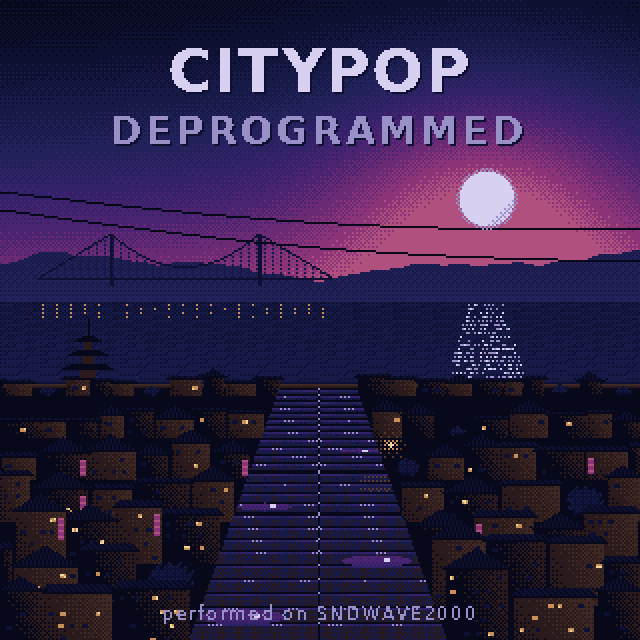
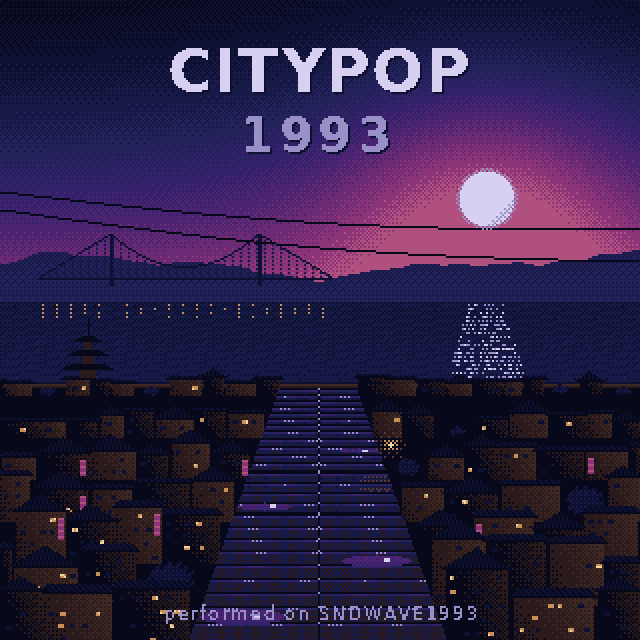
CITYPOP1993: the album and the synth renamed (CITYPOP DEPROGRAMMED -> CITYPOP1993, SNDWAVE2000 -> SNDWAVE1993)
- Changed: the title, captions, liner notes, credits, meta tags and download names.
- /citypop1993/ is canonical. It is a symlink on the host to the same folder, so neither deploy script moves.
- /citypop/ and /citypop-deprogrammed/ answer with 301 redirects to /citypop1993/.
- The cover is re-rendered from make_art.py: CITYPOP / 1993 / performed on SNDWAVE1993.

Changed region(s): [[0.1562, 0.1562, 0.8438, 0.25], [0.25, 0.9375, 0.75, 0.9688]]

diff --git a/site/citypop/index.html b/site/citypop/index.html
@@ -3,16 +3,17 @@
 <head>
 <meta charset="utf-8">
 <meta name="viewport" content="width=device-width, initial-scale=1">
-<title>CITYPOP DEPROGRAMMED</title>
-<meta name="description" content="An album for after the club: a theme and eleven variations on a rainy night, performed on SNDWAVE2000's sixteen Windows 3.11 Sound Recorders.">
-<meta property="og:title" content="CITYPOP DEPROGRAMMED">
-<meta property="og:description" content="A theme and eleven variations for a quiet night in a harbour town. Performed on SNDWAVE2000.">
-<meta property="og:image" content="https://williamsharkey.com/citypop/art/cover-640.png">
+<title>CITYPOP1993</title>
+<meta name="description" content="An album for after the club: a theme and eleven variations on a rainy night, performed on SNDWAVE1993's sixteen Windows 3.11 Sound Recorders.">
+<meta property="og:title" content="CITYPOP1993">
+<meta property="og:description" content="A theme and eleven variations for a quiet night in a harbour town. Performed on SNDWAVE1993.">
+<meta property="og:image" content="https://williamsharkey.com/citypop1993/art/cover-640.png">
+<link rel="canonical" href="https://williamsharkey.com/citypop1993/">
 <meta name="theme-color" content="#07081a">
 <link rel="icon" href="art/icon-32.png">
 <link rel="preload" href="fonts/DejaVuSans.woff2" as="font" type="font/woff2" crossorigin>
 <link rel="preload" href="fonts/DejaVuSansMono.woff2" as="font" type="font/woff2" crossorigin>
-<link rel="stylesheet" href="style.css?v=4">
+<link rel="stylesheet" href="style.css?v=5">
 </head>
 <body>
 <div id="scene" aria-hidden="true"><canvas id="night"></canvas></div>
@@ -23,7 +24,7 @@
   <!-- ============================================================ Media Player -->
   <section class="win" id="player" data-icon="player" data-label="Media Player" aria-label="Media Player">
     <div class="wi">
-      <div class="tb"><button class="sys" aria-label="Control menu for Media Player" aria-haspopup="menu"></button><h1 class="tt">Media Player - CITYPOP DEPROGRAMMED</h1><button class="mn" aria-label="Minimize Media Player"></button></div>
+      <div class="tb"><button class="sys" aria-label="Control menu for Media Player" aria-haspopup="menu"></button><h1 class="tt">Media Player - CITYPOP1993</h1><button class="mn" aria-label="Minimize Media Player"></button></div>
       <div class="menu" role="menubar">
         <button class="mi" data-menu="file"><u>F</u>ile</button>
         <button class="mi" data-menu="device"><u>D</u>evice</button>
@@ -102,7 +103,7 @@
       <div class="tb"><button class="sys" aria-label="Control menu for Notepad" aria-haspopup="menu"></button><h2 class="tt">Notepad - LINERS.TXT</h2><button class="mn" aria-label="Minimize Notepad"></button></div>
       <div class="menu" role="menubar"><span class="mi off"><u>F</u>ile</span><span class="mi off"><u>E</u>dit</span><span class="mi off"><u>S</u>earch</span><span class="mi off"><u>H</u>elp</span></div>
       <div class="sv np" id="npbox"><div class="vp text" tabindex="0">
-      <p><b>CITYPOP DEPROGRAMMED</b> is a theme and eleven variations for a quiet night in a harbour town. It starts
+      <p><b>CITYPOP1993</b> is a theme and eleven variations for a quiet night in a harbour town. It starts
       in the evening rain and ends at first light. Put it on after the club, or when friends are still on the couch
       and nobody wants to go home yet.</p>
       <p>The theme is eight bars long. A pick-up of four notes rises to the third and then leaps to the sixth, over
@@ -110,7 +111,7 @@
       tempo or mode, puts it in waltz time or turns it upside down. Variation VII is the theme inverted, and it is
       the slow heart of the record. One variation quotes, once and briefly, the first bar of Paganini's
       Caprice No. 24 (1817, public domain).</p>
-      <p>Every note was played by SNDWAVE2000. That is sixteen real Windows 3.11 Sound Recorders in DOSBox Pure,
+      <p>Every note was played by SNDWAVE1993. That is sixteen real Windows 3.11 Sound Recorders in DOSBox Pure,
       one Windows for each part, driven by MIDI and rendered offline. The mixer only sets levels and pans and adds a
       shared echo and room. The electric pianos and basses were recorded from the publisher's own instruments into
       the album's sound library, the <i>Rainy Loft Collection</i>, next to rain, a city at night, a far train and an
@@ -132,8 +133,8 @@
       </ul>
       <h3>Credits</h3>
       <ul id="credits">
-        <li>Composed, arranged and performed on SNDWAVE2000 by Algorithmic Industries (William Sharkey).</li>
-        <li>Performed on SNDWAVE2000 with the Rainy Loft Collection (Harborlight Audio Works Co., Ltd., 1988) and the SNDWAVE2000 pack discs.</li>
+        <li>Composed, arranged and performed on SNDWAVE1993 by Algorithmic Industries (William Sharkey).</li>
+        <li>Performed on SNDWAVE1993 with the Rainy Loft Collection (Harborlight Audio Works Co., Ltd., 1988) and the SNDWAVE1993 pack discs.</li>
         <li>Sounds by Paul Chauncy (Uncle Homunculus / Paulywauly).</li>
         <li>Electric piano and bass: the Bele Dance instruments by William Sharkey.</li>
         <li>Field recordings and instrument samples (CC0, Freesound): <span id="cc0">see SOURCES.TXT</span>.</li>
@@ -142,7 +143,7 @@
         <li>Paganini, Caprice No. 24 in A minor, Op. 1 (published 1820), public domain.</li>
       </ul>
       <p class="small"><a href="SOURCES.TXT">SOURCES.TXT</a> lists every recording, its author, licence and page. The
-      compositions and recordings on this page are CC0. <a href="/sndwave2000/">SNDWAVE2000</a> is free.</p>
+      compositions and recordings on this page are CC0. <a href="/sndwave2000/">SNDWAVE1993</a> is free.</p>
       </div><div class="sb"></div></div>
     </div>
   </section>
@@ -182,7 +183,7 @@
       <div class="client form about">
         <canvas class="abicon" id="abicon" aria-hidden="true"></canvas>
         <div>
-          <p><b>CITYPOP DEPROGRAMMED</b><br>Algorithmic Industries<br>Performed on SNDWAVE2000</p>
+          <p><b>CITYPOP1993</b><br>Algorithmic Industries<br>Performed on SNDWAVE1993</p>
           <p class="keys">Space play or pause<br>N / P next or previous<br>&larr; &rarr; 10 seconds<br>&uarr; &darr; volume<br>1&ndash;9, 0, &minus;, = tracks<br>H hide the windows</p>
         </div>
         <div class="dlgbtns"><button class="push def" id="aok" type="button">OK</button></div>
@@ -209,6 +210,6 @@
 <div id="menus"></div>
 <button id="unhide" class="unhide" hidden title="Show the windows (H or Esc)">Show windows</button>
 <noscript><p class="nos">The player needs JavaScript. The files are in <a href="audio/">audio/</a>.</p></noscript>
-<script src="app.js?v=10"></script>
+<script src="app.js?v=11"></script>
 </body>
 </html>

diff --git a/site/citypop/app.js b/site/citypop/app.js
@@ -1,8 +1,8 @@
-/* CITYPOP DEPROGRAMMED: the player, its Windows 3.1 windows, and the night they sit in.
+/* CITYPOP1993: the player, its Windows 3.1 windows, and the night they sit in.
    Every window is placed on whole device pixels; every canvas is backed at device resolution and drawn in device pixels. */
 (() => {
 'use strict';
-const BUILD = '20261114j';             // cache key for the scene and life modules; bump on each UI deploy
+const BUILD = '20261115a';             // cache key for the scene and life modules; bump on each UI deploy
 const $ = (s, r = document) => r.querySelector(s), $$ = (s, r = document) => [...r.querySelectorAll(s)];
 const store = {
   get(k, d) { try { const v = localStorage.getItem('cpd:' + k); return v == null ? d : JSON.parse(v); } catch (e) { return d; } },
@@ -497,9 +497,9 @@ function show(i) {
   $('#rectitle').textContent = 'Sound Recorder - TRACK' + nn + '.WAV';
   $('#rlen').textContent = (t.seconds || 0).toFixed(2) + ' sec.';
   $('#evname').textContent = 'TRACK' + nn + '.MID';
-  document.title = (p.name || t.title) + ' — CITYPOP DEPROGRAMMED';
+  document.title = (p.name || t.title) + ' — CITYPOP1993';
   if ('mediaSession' in navigator) {
-    try { navigator.mediaSession.metadata = new MediaMetadata({ title: t.title, artist: 'Algorithmic Industries', album: 'CITYPOP DEPROGRAMMED', artwork: [{ src: 'art/cover-640.png', sizes: '640x640', type: 'image/png' }] }); } catch (e) { /* old browsers */ }
+    try { navigator.mediaSession.metadata = new MediaMetadata({ title: t.title, artist: 'Algorithmic Industries', album: 'CITYPOP1993', artwork: [{ src: 'art/cover-640.png', sizes: '640x640', type: 'image/png' }] }); } catch (e) { /* old browsers */ }
   }
   posBar.redraw();
   loadEvents(i);
@@ -709,10 +709,10 @@ const menus = {
   file() {
     const t = T();
     return [
-      { label: 'Save Track as MP3…', href: t && !t.pending ? t.mp3 : undefined, download: t ? `CITYPOP DEPROGRAMMED ${String(t.n).padStart(2, '0')} ${t.title.replace(/[:/\\?*"<>|]/g, '')}.mp3` : '', disabled: !t || t.pending },
+      { label: 'Save Track as MP3…', href: t && !t.pending ? t.mp3 : undefined, download: t ? `CITYPOP1993 ${String(t.n).padStart(2, '0')} ${t.title.replace(/[:/\\?*"<>|]/g, '')}.mp3` : '', disabled: !t || t.pending },
       { label: 'Cover Art (640 px)', href: 'art/cover-640.png', blank: true },
       { label: 'SOURCES.TXT', href: 'SOURCES.TXT', blank: true },
-      '-', { label: 'SNDWAVE2000 Home', href: '/sndwave2000/' },
+      '-', { label: 'SNDWAVE1993 Home', href: '/sndwave2000/' },
     ];
   },
   device() {

diff --git a/site/citypop-deprogrammed/index.html b/site/citypop-deprogrammed/index.html
@@ -1,5 +1,5 @@
 <!doctype html>
-<html lang="en"><head><meta charset="utf-8"><title>CITYPOP DEPROGRAMMED</title>
-<meta http-equiv="refresh" content="0; url=/citypop/"><link rel="canonical" href="https://williamsharkey.com/citypop/">
-<style>body{background:#0d1030;color:#e6dcf5;font:15px sans-serif;padding:24px}a{color:#f0b0d8}</style></head>
-<body><p>CITYPOP DEPROGRAMMED has moved to <a href="/citypop/">williamsharkey.com/citypop/</a>.</p></body></html>
+<html lang="en"><head><meta charset="utf-8"><title>CITYPOP1993</title>
+<meta http-equiv="refresh" content="0; url=/citypop1993/"><link rel="canonical" href="https://williamsharkey.com/citypop1993/">
+<style>body{background:#07081a;color:#e9e2f7;font:15px sans-serif;padding:24px}a{color:#f0b0d8}</style></head>
+<body><p>The album is CITYPOP1993 now: <a href="/citypop1993/">williamsharkey.com/citypop1993/</a>.</p></body></html>

diff --git a/site/citypop/style.css b/site/citypop/style.css
@@ -1,4 +1,4 @@
-/* CITYPOP DEPROGRAMMED: Windows 3.1 windows, tinted for the night they sit in.
+/* CITYPOP1993: Windows 3.1 windows, tinted for the night they sit in.
    Every size here is a whole CSS pixel; app.js snaps window positions to device pixels and paints
    the dither textures (title bars, frames, scroll tracks) one device pixel at a time. */
 @font-face { font-family: "CP Sans"; src: url(fonts/DejaVuSans.woff2) format("woff2"); font-display: swap; }
